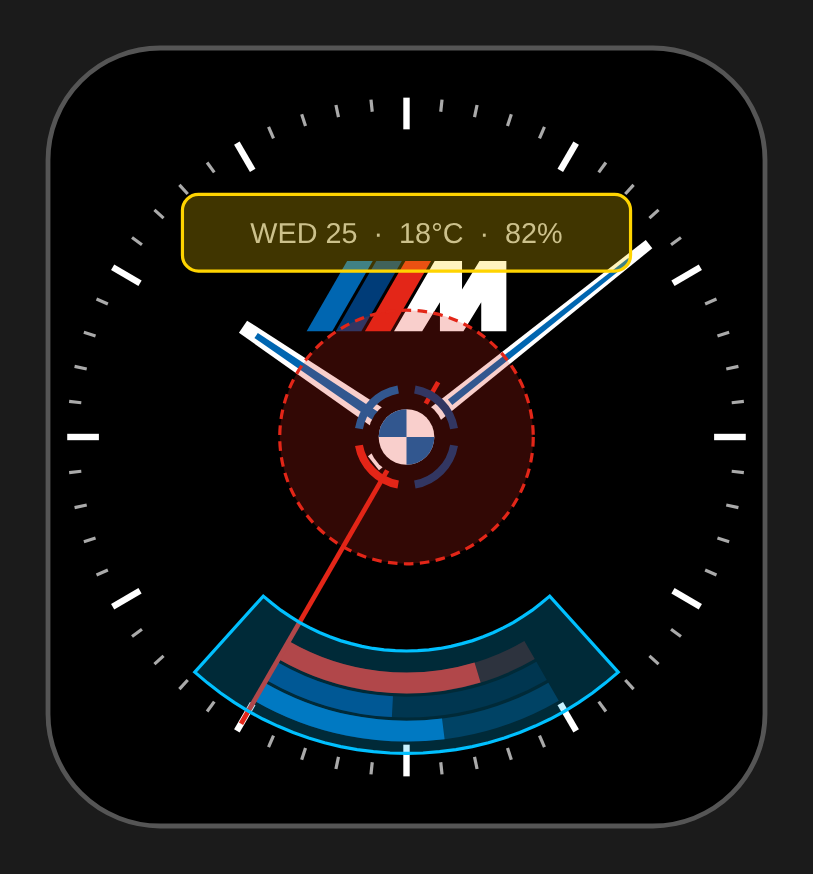
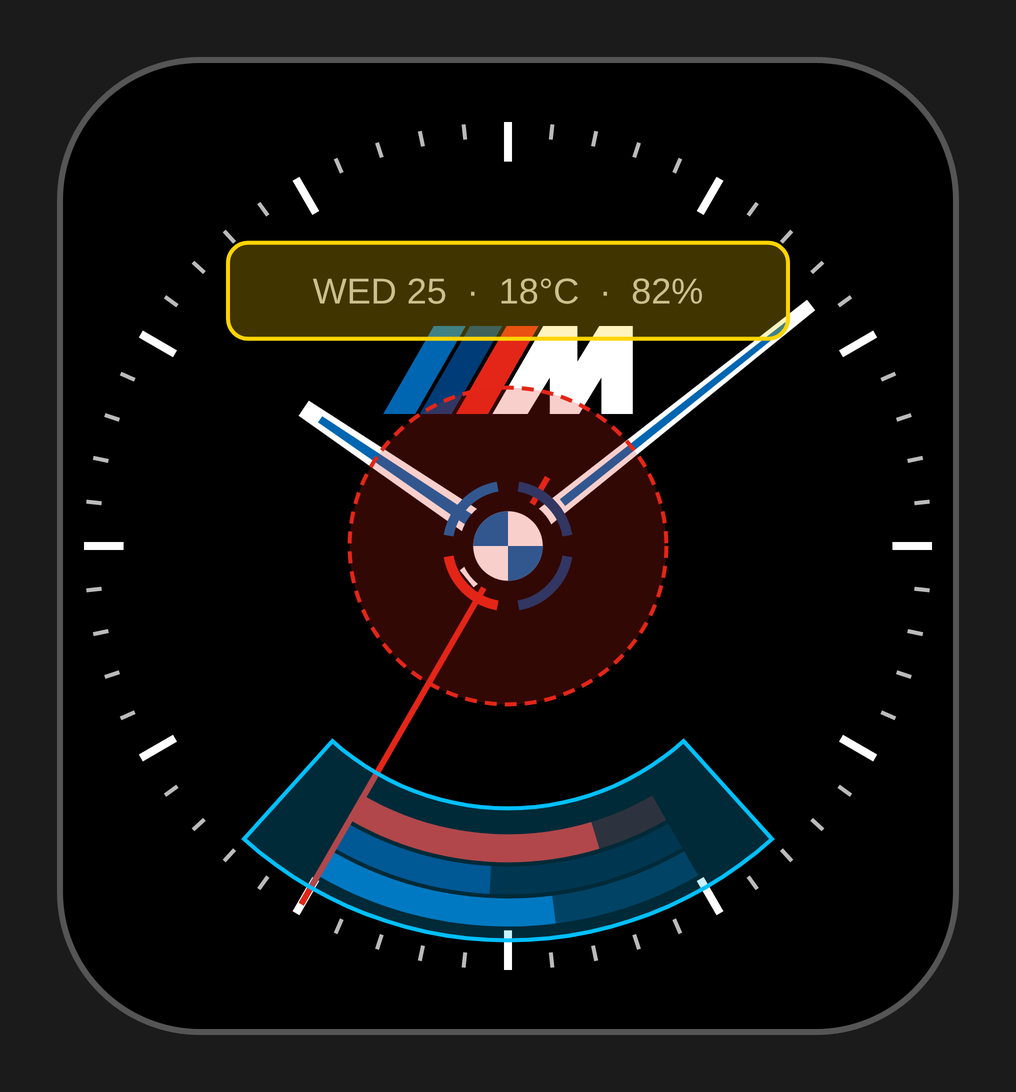
Regenerate wireframes from the theme; round the ring width
Add docs/wireframes.py, which reads colours and spacing from source/Theme.mc
and writes the dial, tap-zone and detail-page mock-ups, and regenerate the
README images from it (plus a new detail pages image). Round the ring bar width
instead of truncating it, so the bars are 14 px like the badge stripes rather
than 13.

Claude-Session: https://claude.ai/code/session_01CEiR5mX4CwQUtKoZKTxSUA

diff --git a/docs/wireframes.py b/docs/wireframes.py
@@ -1,0 +1,306 @@
+#!/usr/bin/env python3
+"""Generate the README wireframes (SVG) from source/Theme.mc.
+
+Colours, fonts' roles and spacing tokens are read from Theme.mc, so the
+mock-ups follow the theme. Layout that lives in BmwMWatchView.mc and
+BmwMDetail.mc (positions as fractions of the dial radius, logo geometry, hand
+lengths) is mirrored below and must be kept in sync by hand.
+
+    python3 docs/wireframes.py [output_dir]      # default: docs/
+
+Writes dial.svg, tap-zones.svg and pages.svg. Convert them to PNG with any
+renderer (the committed PNGs were rendered with headless Chromium).
+The mock-ups use example values and the time 10:08:35; they are not simulator
+screenshots.
+"""
+import math
+import re
+import sys
+from pathlib import Path
+
+HERE = Path(__file__).resolve().parent
+OUT = Path(sys.argv[1]) if len(sys.argv) > 1 else HERE
+
+# ---------------------------------------------------------------- theme
+_theme = (HERE.parent / "source" / "Theme.mc").read_text()
+_consts = dict(re.findall(r"const (\w+)\s*=\s*(0x[0-9A-Fa-f]+|[0-9.]+)\s*;", _theme))
+
+
+def num(name):
+    return float(_consts[name]) if "." in _consts[name] else int(_consts[name], 0)
+
+
+def col(name):
+    return "#%06X" % int(_consts[name], 0)
+
+
+BLUE, NAVY, RED = col("BLUE"), col("NAVY"), col("RED")
+BLUE_DIM, NAVY_DIM, RED_DIM = col("BLUE_DIM"), col("NAVY_DIM"), col("RED_DIM")
+NAVY_LIGHT = col("NAVY_LIGHT")
+WHITE, BLACK = col("WHITE"), col("BLACK")
+GREY_LIGHT, GREY_MID, GREY_DARK = col("GREY_LIGHT"), col("GREY_MID"), col("GREY_DARK")
+GAP, TICK_INSET = num("GAP"), num("TICK_INSET")
+TICK_MAJOR, TICK_MINOR = num("TICK_MAJOR"), num("TICK_MINOR")
+MARGIN, ROW_PITCH = num("MARGIN"), num("ROW_PITCH")
+BAR_W, BAR_H, BAR_R = num("BAR_W"), num("BAR_H"), num("BAR_R")
+Y_STRIPES, Y_TITLE, Y_GLYPH, GLYPH_BIG = num("Y_STRIPES"), num("Y_TITLE"), num("Y_GLYPH"), num("GLYPH_BIG")
+Y_TITLE_UNDER_GLYPH, Y_HERO, Y_SUB, Y_BAR = (num("Y_TITLE_UNDER_GLYPH"), num("Y_HERO"),
+                                              num("Y_SUB"), num("Y_BAR"))
+Y_ROWS, Y_WEATHER_ROWS = num("Y_ROWS"), num("Y_WEATHER_ROWS")
+DIM = {BLUE: BLUE_DIM, NAVY: NAVY_DIM, RED: RED_DIM}
+
+# approximate pixel heights of the Garmin system fonts, per Theme font role
+FONT_PX = {"label": 18, "value": 22, "title": 24, "hero": 96}
+
+# ---------------------------------------------------------------- screen
+W, H = 448, 486
+CX, CY = W / 2, H / 2
+R = min(W, H) / 2 - 4
+FAMILY = "Helvetica,Arial,sans-serif"
+
+
+def pt(rad, deg, x=CX, y=CY):
+    a = math.radians(deg)
+    return x + rad * math.cos(a), y - rad * math.sin(a)
+
+
+def pts(points):
+    return " ".join("%.1f,%.1f" % p for p in points)
+
+
+class Svg:
+    def __init__(self):
+        self.o = []
+
+    def add(self, s):
+        self.o.append(s)
+
+    def text(self, x, y, s, role, fill, anchor="middle"):
+        self.add('<text x="%.1f" y="%.1f" font-size="%d" fill="%s" text-anchor="%s" '
+                 'dominant-baseline="central" font-family="%s">%s</text>'
+                 % (x, y, FONT_PX[role], fill, anchor, FAMILY, s))
+
+    def poly(self, points, fill):
+        self.add('<polygon points="%s" fill="%s"/>' % (pts(points), fill))
+
+    def circle(self, x, y, r, fill):
+        self.add('<circle cx="%.1f" cy="%.1f" r="%.1f" fill="%s"/>' % (x, y, r, fill))
+
+    def line(self, p, q, stroke, w):
+        self.add('<line x1="%.1f" y1="%.1f" x2="%.1f" y2="%.1f" stroke="%s" stroke-width="%s"/>'
+                 % (p[0], p[1], q[0], q[1], stroke, w))
+
+    def arc(self, x, y, rad, a0, a1, stroke, w, cw=False):
+        p0, p1 = pt(rad, a0, x, y), pt(rad, a1, x, y)
+        large = 1 if abs(a1 - a0) > 180 else 0
+        self.add('<path d="M%.1f %.1f A%.1f %.1f 0 %d %d %.1f %.1f" fill="none" stroke="%s" stroke-width="%s"/>'
+                 % (p0[0], p0[1], rad, rad, large, 1 if cw else 0, p1[0], p1[1], stroke, w))
+
+    def doc(self, width, height, vb):
+        return ('<svg xmlns="http://www.w3.org/2000/svg" viewBox="%s" width="%d" height="%d">%s</svg>'
+                % (vb, width, height, "".join(self.o)))
+
+
+def screen(s, ox=0):
+    s.add('<g transform="translate(%d,0)"><rect width="%d" height="%d" rx="70" fill="%s" '
+          'stroke="%s" stroke-width="3"/>' % (ox, W, H, BLACK, GREY_MID))
+
+
+# ---------------------------------------------------------------- shared geometry
+RING_W = int(R * 0.2 / 99 * 36 * 0.866 + 0.5)          # same rounding as ringWidth()
+PITCH = RING_W + GAP
+TICK_INNER = (R - TICK_INSET) - R * TICK_MAJOR
+RING_OUT = TICK_INNER - GAP - RING_W / 2.0              # ringOuterR()
+LOGO_STRIPES = [(66, BLUE), (107, NAVY), (148, RED)]    # top-left x, colour
+LOGO_M = [(132, 99), (189, 0), (227.5, 0), (227.5, 40), (252, 0), (290, 0), (290, 99),
+          (254.5, 99), (254.5, 58), (229.5, 99), (196.5, 99), (196.5, 58), (171.5, 99)]
+
+
+def draw_badge(s, cy):
+    mh = R * 0.2
+    k = mh / 99
+    left, top = CX - 281 * k / 2, cy - mh / 2
+
+    def lp(points):
+        return [(left + (x - 9) * k, top + y * k) for x, y in points]
+    for xt, c in LOGO_STRIPES:
+        s.poly(lp([(xt, 0), (xt + 36, 0), (xt + 36 - 57, 99), (xt - 57, 99)]), c)
+    s.poly(lp(LOGO_M), WHITE)
+
+
+def draw_hand(s, deg, length, wid, tail):
+    a = math.radians(deg)
+    sn, cs = math.sin(a), math.cos(a)
+
+    def poly(ln, hw, tl):
+        local = [(-hw, -tl), (-hw * .6, ln), (hw * .6, ln), (hw, -tl)]
+        return [(CX + x * cs + y * sn, CY + x * sn - y * cs) for x, y in local]
+    s.poly(poly(length, wid / 2, tail), WHITE)
+    s.poly(poly(length * .92, wid / 5, -length * .18), BLUE)
+
+
+def draw_roundel(s):
+    rr = R * .11
+    ri = rr * .72
+    for c, a0, a1 in [(BLUE, 100, 170), (NAVY, 10, 80), (NAVY, 280, 350), (RED, 190, 260)]:
+        s.arc(CX, CY, rr + 6, a0, a1, c, 5)
+    s.circle(CX, CY, rr, BLACK)
+    s.circle(CX, CY, ri, WHITE)
+    for a0, a1 in [(90, 180), (270, 360)]:
+        p0, p1 = pt(ri, a0), pt(ri, a1)
+        s.add('<path d="M%.1f %.1f L%.1f %.1f A%.1f %.1f 0 0 0 %.1f %.1f Z" fill="%s"/>'
+              % (CX, CY, p0[0], p0[1], ri, ri, p1[0], p1[1], BLUE))
+
+
+def dial(zones=False):
+    s = Svg()
+    s.add('<rect x="-30" y="-30" width="%d" height="%d" fill="#1b1b1b"/>' % (W + 60, H + 60))
+    screen(s)
+    # ring track + fill: a 60 degree wedge, 240..300, fill runs left to right
+    for i, (c, frac) in enumerate([(BLUE, .62), (NAVY, .45), (RED, .78)]):
+        rad = RING_OUT - i * PITCH
+        s.arc(CX, CY, rad, 240, 300, DIM[c], RING_W)
+        s.arc(CX, CY, rad, 240, 240 + 60 * frac, c, RING_W)
+    for i in range(60):
+        major = i % 5 == 0
+        outer = R - TICK_INSET
+        inner = outer - (R * TICK_MAJOR if major else R * TICK_MINOR)
+        s.line(pt(inner, 90 - i * 6), pt(outer, 90 - i * 6),
+               WHITE if major else GREY_LIGHT, 4 if major else 2)
+    draw_badge(s, CY - R * .4)
+    s.text(CX, CY - R * .58, "WED 25 &#160;&#183;&#160; 18&#176;C &#160;&#183;&#160; 82%", "label", GREY_LIGHT)
+    draw_hand(s, (10 + 8 / 60) * 30, R * .56, R * .07, R * .1)
+    draw_hand(s, (8 + 35 / 60) * 6, R * .88, R * .05, R * .12)
+    a = math.radians(35 * 6)
+    s.line((CX - math.sin(a) * R * .18, CY + math.cos(a) * R * .18),
+           (CX + math.sin(a) * R * .94, CY - math.cos(a) * R * .94), RED, 3)
+    draw_roundel(s)
+    if zones:
+        s.add('<rect x="%.1f" y="%.1f" width="280" height="48" rx="10" fill="#FFD400" fill-opacity=".25" '
+              'stroke="#FFD400" stroke-width="2"/>' % (CX - 140, CY - R * .58 - 24))
+        s.add('<circle cx="%.1f" cy="%.1f" r="%.1f" fill="%s" fill-opacity=".22" stroke="%s" '
+              'stroke-width="2" stroke-dasharray="6 4"/>' % (CX, CY, R * .36, RED, RED))
+        r_hi, r_lo = RING_OUT + 14, RING_OUT - 2 * PITCH - 20
+        band = [pt(r_hi, a_) for a_ in range(228, 313, 3)] + [pt(r_lo, a_) for a_ in range(312, 227, -3)]
+        s.add('<polygon points="%s" fill="#00C0FF" fill-opacity=".22" stroke="#00C0FF" stroke-width="2"/>'
+              % pts(band))
+    s.add("</g>")
+    return s.doc((W + 60) * 2, (H + 60) * 2, "-30 -30 %d %d" % (W + 60, H + 60))
+
+
+# ---------------------------------------------------------------- glyphs (page mock-ups)
+def g_heart(s, x, y, sz, c):
+    s.circle(x - sz * .25, y - sz * .15, sz * .28, c)
+    s.circle(x + sz * .25, y - sz * .15, sz * .28, c)
+    s.poly([(x - sz * .51, y - sz * .02), (x + sz * .51, y - sz * .02), (x, y + sz * .55)], c)
+
+
+def g_shoe(s, x, y, sz, c):
+    k = sz * 1.15
+    cy = y + k * .035
+    up = [(-.6, .22), (-.6, -.1), (-.5, -.45), (-.2, -.45), (-.12, -.15), (.05, -.12), (.28, -.02), (.55, .08), (.6, .22)]
+    so = [(-.62, .22), (.62, .22), (.62, .38), (-.55, .38)]
+    s.poly([(x + u * k, cy + v * k) for u, v in up], c)
+    s.poly([(x + u * k, cy + v * k) for u, v in so], GREY_LIGHT)
+
+
+def g_bolt(s, x, y, sz, c):
+    s.poly([(x + sz * .15, y - sz * .6), (x - sz * .35, y + sz * .05), (x - sz * .02, y + sz * .05),
+            (x - sz * .15, y + sz * .6), (x + sz * .35, y - sz * .1), (x + sz * .02, y - sz * .1)], c)
+
+
+def g_body(s, x, y, sz, c, frac):
+    rr = sz * .62
+    s.add('<circle cx="%.1f" cy="%.1f" r="%.1f" fill="none" stroke="%s" stroke-width="2"/>' % (x, y, rr, GREY_MID))
+    s.arc(x, y, rr, 90, 90 - 360 * frac, c, 2, cw=True)
+    s.circle(x, y - sz * .24, sz * .1, GREY_LIGHT)
+    for x1, y1, x2, y2 in [(0, -.1, 0, .15), (0, -.02, -.22, -.17), (0, -.02, .22, -.17),
+                           (0, .15, -.14, .36), (0, .15, .14, .36)]:
+        s.line((x + x1 * sz, y + y1 * sz), (x + x2 * sz, y + y2 * sz), GREY_LIGHT, 2)
+
+
+# ---------------------------------------------------------------- detail pages
+def stripes(s, ox):
+    for i, c in enumerate([BLUE, NAVY, RED]):
+        x = ox + CX - 40 + i * 28
+        s.poly([(x + 8, Y_STRIPES - 7), (x + 28, Y_STRIPES - 7), (x + 20, Y_STRIPES + 7), (x, Y_STRIPES + 7)], c)
+
+
+def bar(s, ox, y, frac, c):
+    s.add('<rect x="%.1f" y="%.1f" width="%d" height="%d" rx="%d" fill="%s"/>'
+          % (ox + CX - BAR_W / 2, y - BAR_H / 2, BAR_W, BAR_H, BAR_R, DIM.get(c, GREY_DARK)))
+    s.add('<rect x="%.1f" y="%.1f" width="%.1f" height="%d" rx="%d" fill="%s"/>'
+          % (ox + CX - BAR_W / 2, y - BAR_H / 2, BAR_W * frac, BAR_H, BAR_R, c))
+
+
+def row(s, ox, y, label, value):
+    s.text(ox + MARGIN, y, label, "label", GREY_LIGHT, "start")
+    s.text(ox + W - MARGIN, y, value, "value", WHITE, "end")
+
+
+def pages():
+    s = Svg()
+    total = W * 3 + 80
+    s.add('<rect x="-20" y="-20" width="%d" height="%d" fill="#1b1b1b"/>' % (total + 40, H + 40))
+
+    # 1: activity rings page
+    ox = 0
+    screen(s, ox)
+    stripes(s, 0)
+    s.text(CX, Y_TITLE, "ACTIVITY RINGS", "title", GREY_LIGHT)
+    items = [("Steps", "6214 / 10000", .62, BLUE, "shoe"),
+             ("Active minutes (week)", "68 / 150 min", .45, NAVY, "bolt"),
+             ("Body battery", "78 / 100", .78, RED, "body")]
+    for i, (name, val, frac, c, g) in enumerate(items):
+        y = 150 + i * 100
+        gx = MARGIN + 14
+        if g == "shoe":
+            g_shoe(s, gx, y, 24, BLUE)
+        elif g == "bolt":
+            g_bolt(s, gx, y, 24, NAVY_LIGHT)
+        else:
+            g_body(s, gx, y, 24, RED, frac)
+        s.text(MARGIN + 46, y - 14, name, "label", GREY_LIGHT, "start")
+        s.text(MARGIN + 46, y + 10, val, "value", WHITE, "start")
+        bar(s, 0, y + 40, frac, c)
+    s.add("</g>")
+
+    # 2: a metric page (steps)
+    ox = W + 40
+    screen(s, ox)
+    stripes(s, 0)
+    g_shoe(s, CX, Y_GLYPH, GLYPH_BIG, BLUE)
+    s.text(CX, Y_TITLE_UNDER_GLYPH, "STEPS", "title", GREY_LIGHT)
+    s.text(CX, Y_HERO, "6214", "hero", WHITE)
+    s.text(CX, Y_SUB, "of 10000 goal", "label", GREY_LIGHT)
+    bar(s, 0, Y_BAR, .62, BLUE)
+    for i, (l, v) in enumerate([("Distance", "4.7 km"), ("Calories", "312 kcal"), ("Floors", "6 / 10")]):
+        row(s, 0, Y_ROWS + i * ROW_PITCH, l, v)
+    s.add("</g>")
+
+    # 3: weather page
+    ox = (W + 40) * 2
+    screen(s, ox)
+    stripes(s, 0)
+    s.text(CX, Y_TITLE, "WEATHER", "title", GREY_LIGHT)
+    s.text(CX, 142, "18", "hero", WHITE)
+    s.text(CX + 61, 120, "&#176;C", "title", GREY_LIGHT, "start")
+    s.text(CX, 204, "Partly cloudy", "title", WHITE)
+    s.text(CX, 234, "Feels like 16&#176;", "label", GREY_LIGHT)
+    for i, (l, v) in enumerate([("High / low", "20&#176; / 9&#176;"), ("Rain chance", "30%"),
+                                ("Wind", "12 km/h NW"), ("Humidity", "65%")]):
+        row(s, 0, Y_WEATHER_ROWS + i * ROW_PITCH, l, v)
+    for i, (t, v) in enumerate([("14:00", "19&#176;"), ("15:00", "20&#176;"), ("16:00", "19&#176;"), ("17:00", "17&#176;")]):
+        x = W * (.2 + .2 * i)
+        s.text(x, 410, t, "label", GREY_LIGHT)
+        s.text(x, 438, v, "value", WHITE)
+    s.add("</g>")
+    return s.doc(total * 1, (H + 40), "-20 -20 %d %d" % (total + 40, H + 40))
+
+
+if __name__ == "__main__":
+    OUT.mkdir(parents=True, exist_ok=True)
+    (OUT / "dial.svg").write_text(dial())
+    (OUT / "tap-zones.svg").write_text(dial(zones=True))
+    (OUT / "pages.svg").write_text(pages())
+    print("wrote", ", ".join(str(OUT / n) for n in ("dial.svg", "tap-zones.svg", "pages.svg")))

diff --git a/README.md b/README.md
@@ -12,8 +12,22 @@ activity rings page.
 
 ![Tap zones](docs/tap-zones.png)
 
-These are mock-ups rendered from the same geometry the code uses, with example
-values and the time set to 10:08:35. They are not simulator screenshots.
+Tap pages (activity rings, a metric page, weather):
+
+![Tap pages](docs/pages.png)
+
+These are mock-ups with example values and the time set to 10:08:35. They are not
+simulator screenshots. They are generated from `source/Theme.mc` by
+`docs/wireframes.py`, so they follow the theme. Layout that lives in the Monkey C
+files is mirrored in the script and has to be kept in sync by hand. Regenerate
+with:
+
+```sh
+python3 docs/wireframes.py /tmp/wf   # writes dial.svg, tap-zones.svg, pages.svg
+```
+
+then convert the SVGs to PNG with any renderer (these were done with headless
+Chromium).
 
 ## Features
 
